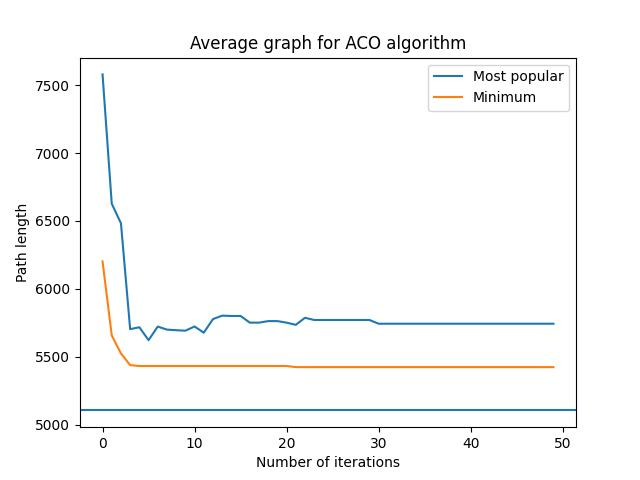
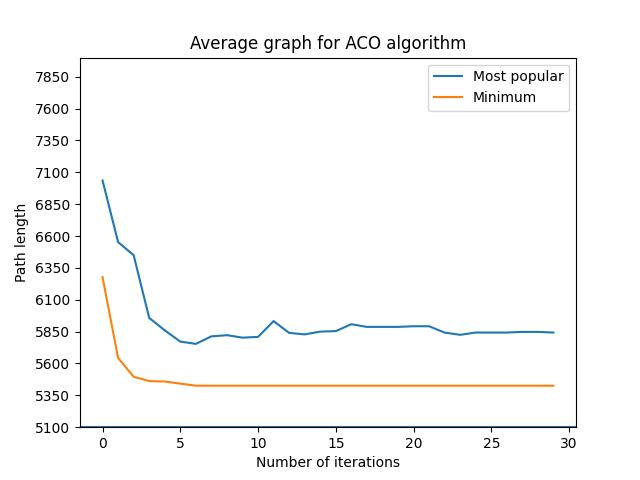
Edited graphs

diff --git a/src/scripts/ant_colony_tsp_script.py b/src/scripts/ant_colony_tsp_script.py
@@ -3,6 +3,7 @@ import subprocess
 from math import inf
 import matplotlib.pyplot as plt
 import numpy as np
+import seaborn as sns
 
 
 def run_task(graph_path, config_path, paths_path, func_num):
@@ -18,6 +19,7 @@ def run_task(graph_path, config_path, paths_path, func_num):
 def get_res(graph_path, config_path, config_path_mm, paths_path, n):
     funcs_res = []
     for i in range(1, 5):
+        print(f"Running func: {i}")
         funcs_res.append([])
         for _ in range(n):
             if i == 4:
@@ -28,6 +30,7 @@ def get_res(graph_path, config_path, config_path_mm, paths_path, n):
                 res_n.append((float(func_res[j].split(": ")[1]), float(func_res[j + 1].split(": ")[1])))
             funcs_res[-1].append(res_n)
     return funcs_res
+
 
 def build_graph_min(min_res, min_value, number_of_f, path_to_save_min):
     titles = ["ACO", "Elitism", "ACS", "MMAS"]
@@ -40,27 +43,49 @@ def build_graph_min(min_res, min_value, number_of_f, path_to_save_min):
     plt.xlabel('Number of iterations')
     plt.ylabel('Path length')
     title = "Min graph for " + titles[number_of_f] + " algorithm"
+    plt.ylim(min_value, 8000)
+    plt.yticks(np.arange(min_value // 100 * 100, 8000, 250))
     plt.title(title)
     plt.legend()
     plt.savefig(path_to_save_min)
     plt.cla()
 
 
-def build_graph_avg(avg_res, min_value, number_of_f,  path_to_save_avg):
+def build_graph_avg(avg_res, min_value, number_of_f, path_to_save_avg):
     titles = ["ACO", "Elitism", "ACS", "MMAS"]
     x = [elem[0] for elem in avg_res[number_of_f]]
     y = [i for i, j in enumerate(avg_res[number_of_f])]
     plt.plot(y, x, label='Most popular')
     x_1 = [elem[1] for elem in avg_res[number_of_f]]
-    plt.plot(y,x_1, label='Minimum')
+    plt.plot(y, x_1, label='Minimum')
     plt.axhline(y=min_value)
     plt.xlabel('Number of iterations')
     plt.ylabel('Path length')
     title = "Average graph for " + titles[number_of_f] + " algorithm"
+    plt.ylim(min_value, 8000)
+    plt.yticks(np.arange(min_value // 100 * 100, 8000, 250))
     plt.title(title)
     plt.legend()
     plt.savefig(path_to_save_avg)
     plt.cla()
+
+
+def build_graph(res_list):
+    x = [i // 10 + 1 for i in range(300)]
+    y = []
+    for algo in range(4):
+        algo_list = []
+        for i in range(30):
+            iter_list = []
+            for j in range(10):
+                iter_list.append(res_list[algo][j][i][0])
+            algo_list.append(iter_list)
+        y.append(algo_list)
+    print(x)
+    print(y[0])
+
+    plt.scatter(x, y[0], marker='o')
+    plt.savefig("output.png")
 
 
 if __name__ == "__main__":
@@ -72,9 +97,10 @@ if __name__ == "__main__":
     parser.add_argument('config', type=str, help='Path to config file')
     parser.add_argument('config_min_max', type=str, help='Path to min max config file')
     args = parser.parse_args()
-    config_temp = args.dir_path + "/config_temp.cfg"
-    paths_temp = args.dir_path + "/path_temp.csv"
-    min_path = args.dir_path + "/min_path.txt"
+    dir_path = args.dir_path
+    config_temp = dir_path + "/config_temp.cfg"
+    paths_temp = dir_path + "/path_temp.csv"
+    min_path = dir_path + "/min_path.txt"
     results = get_res(args.graph, args.config, args.config_min_max, paths_temp, args.repetitions)
     min_res = []
     avg_res = []
@@ -100,11 +126,16 @@ if __name__ == "__main__":
     with open(min_path, "r") as min_v:
         for line in min_v:
             minimum_value = float(line.strip())
-    build_graph_min(min_res, minimum_value, 0, "./min_0.jpg")
-    build_graph_avg(avg_res, minimum_value, 0, "./avg_0.jpg")
-    build_graph_min(min_res, minimum_value, 1, "./min_1.jpg")
-    build_graph_avg(avg_res, minimum_value, 1, "./avg_1.jpg")
-    build_graph_min(min_res, minimum_value, 2, "./min_2.jpg")
-    build_graph_avg(avg_res, minimum_value, 2, "./avg_2.jpg")
-    build_graph_min(min_res, minimum_value, 3, "./min_3.jpg")
-    build_graph_avg(avg_res, minimum_value, 3, "./avg_3.jpg")
+    build_graph_min(min_res, minimum_value, 0, f"{dir_path}/min_0.jpg")
+    build_graph_avg(avg_res, minimum_value, 0, f"{dir_path}/avg_0.jpg")
+    build_graph_min(min_res, minimum_value, 1, f"{dir_path}/min_1.jpg")
+    build_graph_avg(avg_res, minimum_value, 1, f"{dir_path}/avg_1.jpg")
+    build_graph_min(min_res, minimum_value, 2, f"{dir_path}/min_2.jpg")
+    build_graph_avg(avg_res, minimum_value, 2, f"{dir_path}/avg_2.jpg")
+    build_graph_min(min_res, minimum_value, 3, f"{dir_path}/min_3.jpg")
+    build_graph_avg(avg_res, minimum_value, 3, f"{dir_path}/avg_3.jpg")
+    # print(len(results))
+    # print(len(results[0]))
+    # print(len(results[0][0]))
+    # print(len(results[0][0][0]))
+    # build_graph(results)

diff --git a/src/graph_generation/write_to_csv.cpp b/src/graph_generation/write_to_csv.cpp
@@ -13,18 +13,18 @@ void write_to_csv(const std::string &output_path,
     file_csv.open(output_path);
     for (size_t i = 0; i < iterations - 1; ++i) {
         file_csv << "path_" << i << ",";
-        for (size_t elem = 0; elem < nodes - 1; ++elem) {
+        for (size_t elem = 0; elem < nodes - 2; ++elem) {
             file_csv << most_popular_paths[i][elem].first << " " << most_popular_paths[i][elem].second << ",";
         }
-        file_csv << most_popular_paths[i][nodes - 1].first << " "
-                 << most_popular_paths[i][nodes - 1].second << "\n";
+        file_csv << most_popular_paths[i][nodes - 2].first << " "
+                 << most_popular_paths[i][nodes - 2].second << "\n";
     }
     file_csv << "min_path,";
-    for (size_t elem = 0; elem < nodes - 1; ++elem) {
+    for (size_t elem = 0; elem < nodes - 2; ++elem) {
         file_csv << min_path[elem].first << " " << min_path[elem].second << ",";
     }
-    file_csv << min_path[nodes - 1].first << " "
-             << min_path[nodes - 1].second << "\n";
+    file_csv << min_path[nodes - 2].first << " "
+             << min_path[nodes - 2].second << "\n";
 
 
     file_csv.close();

diff --git a/src/scripts/constant_analysing.py b/src/scripts/constant_analysing.py
@@ -1,0 +1,13 @@
+import argparse
+
+
+def
+
+
+
+if __name__ == "__main__":
+    parser = argparse.ArgumentParser(
+        description='Python script for comparison of different functions')
+    parser.add_argument('repetitions', type=int, help='Number of repetitions of running functions')
+    parser.add_argument('graph', type=str, help='Path to graph')
+    parser.add_argument('dir_path', type=str, help='Path to directory')

diff --git a/src/graph_generation/graph_visualization.py b/src/graph_generation/graph_visualization.py
@@ -19,6 +19,7 @@ def visualize(graph_path, output_path):
     nx.draw_networkx_edges(G, pos, edgelist=edge_list, width=1)
 
     nx.draw_networkx_labels(G, pos, font_size=10, font_family="sans-serif")
+
     edge_labels = nx.get_edge_attributes(G, "weight")
     nx.draw_networkx_edge_labels(G, pos, edge_labels, font_size=5)
 
